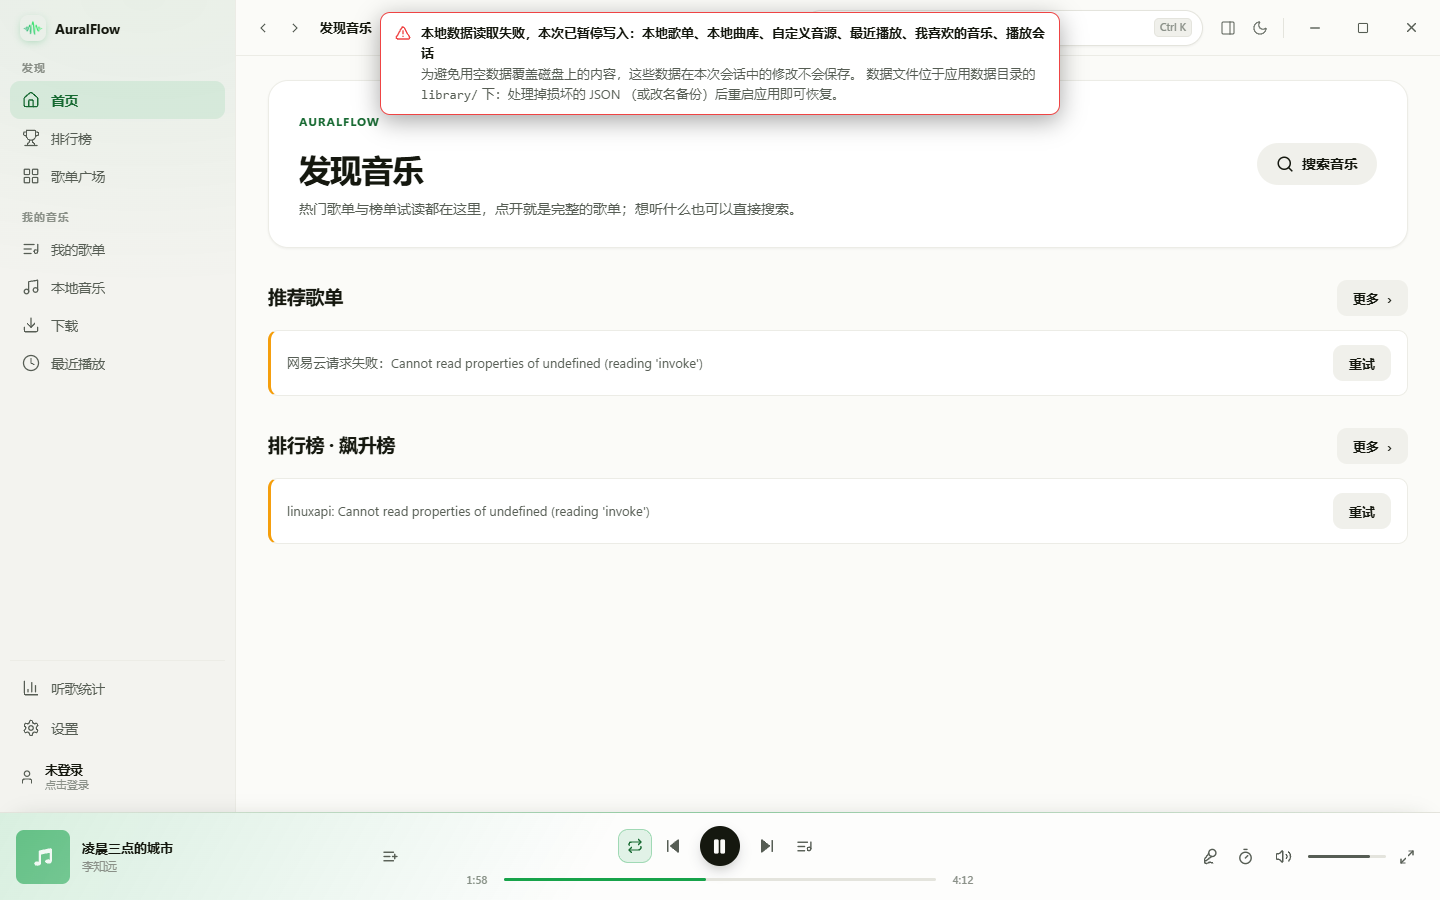
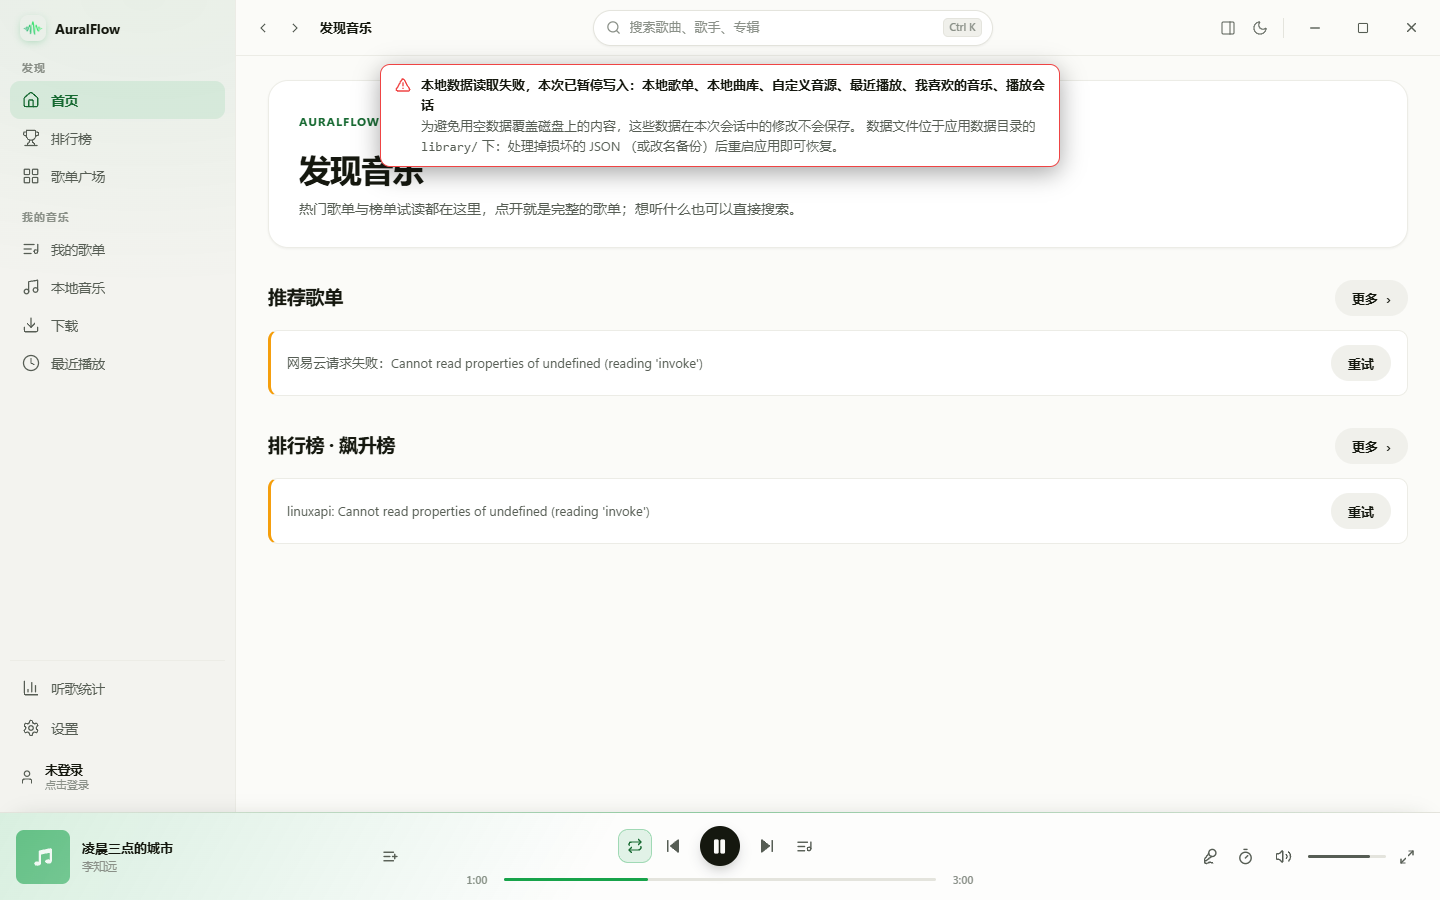
fix(desktop): 数据告警条让开顶栏；补齐重设计实施截图与文档
- LibraryDegradedNotice 从 top:12 移到顶栏下方（新顶栏占住窗口最上沿 56px），
  圆角改用 --af-radius-md
- PROPOSAL 记录第二阶段完成项与有意留到下一轮的三件事
- 归档首页 / 详情 / 空态 / 沉浸歌词的实机截图

diff --git a/desktop/src/components/LibraryDegradedNotice.tsx b/desktop/src/components/LibraryDegradedNotice.tsx
@@ -29,7 +29,8 @@ export function LibraryDegradedNotice() {
       role="alert"
       style={{
         position: "fixed",
-        top: 12,
+        // 顶栏占住窗口最上沿 56px，告警条落在它下面，别把面包屑和搜索盖住
+        top: "calc(var(--af-topbar-height, 56px) + 8px)",
         left: "50%",
         transform: "translateX(-50%)",
         zIndex: 9999,
@@ -38,7 +39,7 @@ export function LibraryDegradedNotice() {
         gap: 10,
         alignItems: "flex-start",
         padding: "10px 14px",
-        borderRadius: 10,
+        borderRadius: "var(--af-radius-md, 10px)",
         border: "1px solid var(--af-error, #e74c3c)",
         background: "var(--af-bg-elevated, #1f1f1f)",
         color: "var(--af-text-primary, #f5f5f5)",

diff --git a/docs/ui-redesign/PROPOSAL.md b/docs/ui-redesign/PROPOSAL.md
@@ -272,12 +272,22 @@ motion:  120ms(状态) · 200ms(位移/展开) · 300ms(页面进场)
 | 首页 | hero 收紧到 272px、区块标题 19px、区块动作改文字链、去掉重复的搜索按钮 |
 | 搜索页 | 补空态（图标 + 文案 + `Ctrl K` 提示），并收起顶栏重复的搜索框 |
 
-**剩余（下一步）**
+**第二阶段（提交 `56abc86`）**
 
-1. 歌单 / 歌手 / 专辑详情页：头部 196px 封面 + 38px 标题、表格行 52px、播放行均衡器、吸顶动作条。
-2. 本地音乐 / 下载 / 历史：列表与空态统一到 `SongRow` + `EmptyState`。
-3. 沉浸歌词：背景模糊 56 → 78px、亮度 .30、封面细环、歌词列限宽 560。
-4. `components/ui/` 原语层（Button / SearchField / EmptyState / Card），把这次散在 CSS 里的规格收进去。
+| 项 | 结果 |
+|---|---|
+| 详情页（歌单/歌手/专辑/历史/云盘共用） | 封面 240 → 196 并与文案底对齐；标题 clamp 28–38；主行动改强调色实心；头部渐变 22% → 16%，无封面时不再是"绿墙"；占位块改半透明白，字号 64 → 12 |
+| 歌曲表 | 行高 52、序号列 34、缩略图 34、时长右对齐；播放行序号换成均衡器动画；行内操作默认隐藏，悬停/播放中/键盘聚焦才出现 |
+| 空态 | `.af-empty-state` 全站统一为「图标 + 17px 标题 + 13px 说明 + 主行动」，长错误串自动换行；本地曲库与历史改用 `EmptyState` 原语 |
+| 沉浸歌词 | 背景模糊 80 → 92px 并压暗，色噪层 .65 → .5，封面加 1px 细描边与更深投影 |
+| UI 原语 | 新增 `components/ui/`（Button / EmptyState + barrel）：补 ghost / danger / 三档尺寸；全站按钮统一胶囊、主按钮阴影从 `0 10px 24px` 收到 `0 6px 18px -8px` |
+| 告警条 | 本地数据读取失败的浮层从 `top: 12` 移到顶栏下方，不再盖住面包屑与搜索 |
+
+**仍未做（有意留到下一轮）**
+
+1. 详情页滚动吸顶动作条（需要滚动监听与新的吸顶容器，改动面比纯样式大）。
+2. `Ctrl Q` 开关右栏：Windows 上容易被误读成"退出"，暂只保留 `Ctrl K`。
+3. 移动端：本轮不动，后续只同步色值与字号。
 
 **已知取舍**
 
